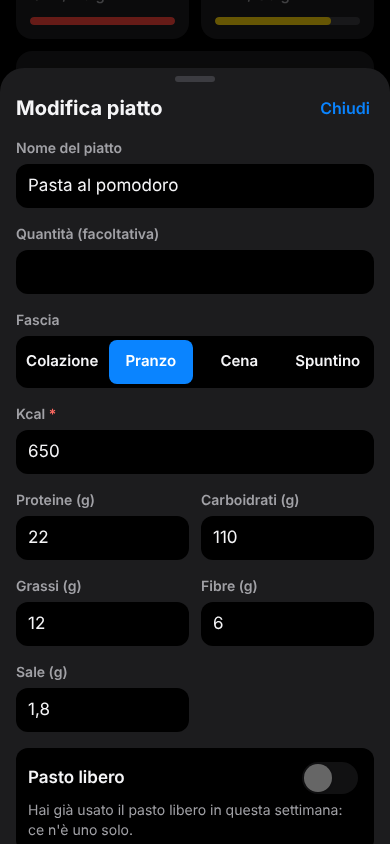
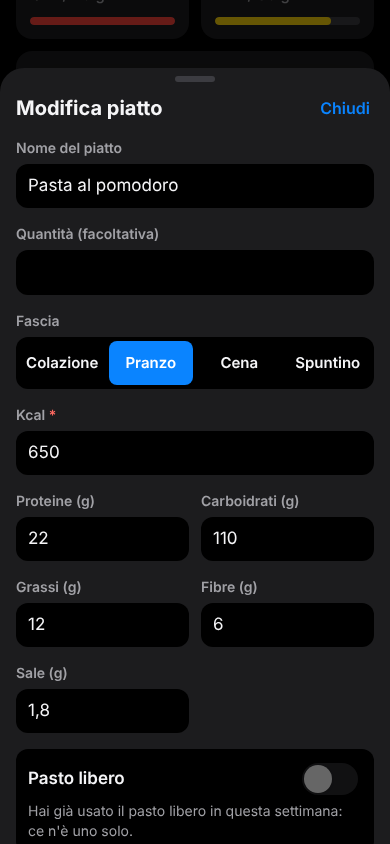
T5b.2 correzione: campo Quantità a più righe (in attesa di revisione)
Claude-Session: https://claude.ai/code/session_01Q1wTxDLrvVU4hsBJyp9sCk

diff --git a/src/app/components/ai-estimate.tsx b/src/app/components/ai-estimate.tsx
@@ -205,7 +205,7 @@ export function AiEstimate({ store, date, dayDishes, onChanged, onClose, fixedSl
                       <label htmlFor={`qty-${d.key}`} className="text-sm font-semibold text-muted">
                         Quantità
                       </label>
-                      <input id={`qty-${d.key}`} type="text" autoComplete="off" value={d.quantity} onChange={(e) => setDish(meal.key, d.key, { quantity: e.target.value, quantityAssumed: false })} className={`${input} bg-bg`} />
+                      <textarea id={`qty-${d.key}`} autoComplete="off" rows={Math.min(8, Math.max(1, Math.ceil(d.quantity.length / 30)))} value={d.quantity} onChange={(e) => setDish(meal.key, d.key, { quantity: e.target.value.replace(/\n/g, " "), quantityAssumed: false })} className={`${input} field-sizing-content resize-none bg-bg py-2.5`} />
                       {d.note && <p className="text-sm text-muted">{d.note}</p>}
                     </div>
                     <div className="grid grid-cols-2 gap-x-3 gap-y-3">

diff --git a/src/app/components/meal-form.tsx b/src/app/components/meal-form.tsx
@@ -119,7 +119,7 @@ export function MealForm({ initial, freeAllowedFor, mealIsFreeFor, lockedSlot = 
 
       <div className="flex flex-col gap-1.5">
         <label htmlFor="meal-quantity" className="text-sm font-semibold text-muted">Quantità (facoltativa)</label>
-        <input id="meal-quantity" type="text" autoComplete="off" value={values.quantity} onChange={(e) => set("quantity", e.target.value)} className={input} />
+        <textarea id="meal-quantity" autoComplete="off" rows={Math.min(8, Math.max(1, Math.ceil(values.quantity.length / 30)))} value={values.quantity} onChange={(e) => set("quantity", e.target.value.replace(/\n/g, " "))} className={`${input} field-sizing-content resize-none py-2.5`} />
       </div>
 
       {!lockedSlot && (

diff --git a/docs/DIARIO.md b/docs/DIARIO.md
@@ -58,7 +58,7 @@ Una riga per task chiuso.
 - T5.6 · fatto · `docs/REPORT-FASE-5.md` scritto, con i controlli da fare sul telefono dopo la pubblicazione e, a parte, dopo aver collegato il Comando rapido.
 - T5b.0 · fatto · passi in sola lettura (Oggi, Aggiungi, Settimana; un vecchio valore a mano si può solo eliminare); «Bici a mano» al posto di «Attività a mano»; parte a mano della bici (`bikeKmManual`, `bikeKcalManual`) che si somma ai km di Salute, nel motore (`bikeKmTotal`, `bikeKcal`), nello sportello (browser, Supabase, importazione), nel CSV, in Oggi (totale + dettaglio, si tocca solo la parte a mano) e nel pannello Bici della Settimana (aggiungi, modifica, elimina, scorrimento solo sulla parte a mano). Migrazione 0013 (colonne nuove, spostamento dei vecchi valori a mano, `ingest_health` riscritta) e `supabase/aggiornamento-fase-5b.sql`. Casi E e F invariati.
 - T5b.1 · fatto · anello kcal con la regola di §3.5 (accento / verde / giallo / rosso, soglie `ringGreenBelow` 150, `ringGreenAbove` 50, `ringYellowAbove` 200 in `defaults.ts`; tolta `KCAL_RING_YELLOW_LIMIT`); barre della Settimana con gli stessi colori; `recoveryMin` 50; migrazione 0014 (righe con 25 → 50). Test aggiornati per la nuova regola: `traffic.test.ts`, `settings.test.ts` (default 50), `target.test.ts` (soglia 50/49, caso Z), `week-view.test.ts` (giovedì 1.900 su 2.000 ora verde). 6 scenari nuovi.
-- T5b.2 · in attesa di revisione · `SYSTEM_PROMPT` riscritto (nome = solo piatto; quantità = ingredienti principali con i grammi; crudo/cotto con interpretazione scritta; tre esempi), temperatura 0, quantità fino a 500 caratteri, riga del piatto in Oggi e della proposta su due righe al massimo con i puntini, provider finto con quantità nel nuovo formato.
+- T5b.2 · in attesa di revisione · `SYSTEM_PROMPT` riscritto (nome = solo piatto; quantità = ingredienti principali con i grammi; crudo/cotto con interpretazione scritta; tre esempi), temperatura 0, quantità fino a 500 caratteri, riga del piatto in Oggi e della proposta su due righe al massimo con i puntini, campo Quantità a più righe (si legge per intero), provider finto con quantità nel nuovo formato.
 
 ## Decisioni da confermare
 
